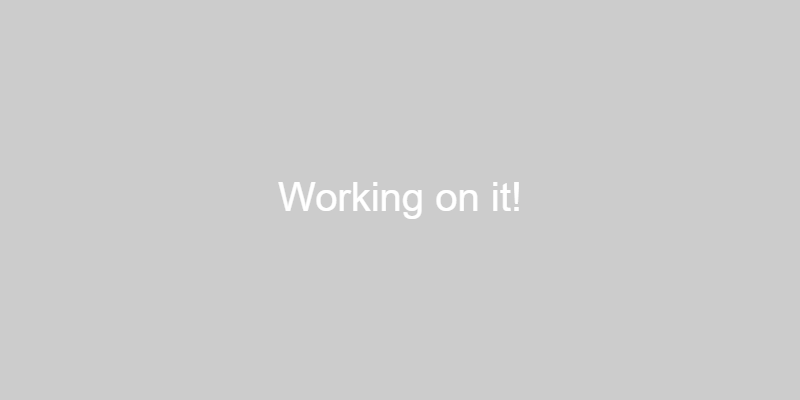
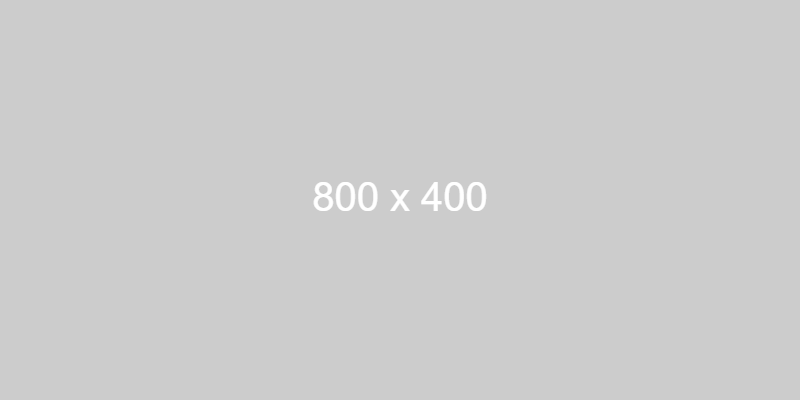
refactor: comment out saveResponseData calls in searchPlace and searchPlaceById, remove unused dummy image

Changed region(s): [[0.3438, 0.45, 0.6562, 0.57]]

diff --git a/backend/src/scraper/searchPlace.js b/backend/src/scraper/searchPlace.js
@@ -1,4 +1,4 @@
-import { saveResponseData } from "../utils/saveResponse.js";
+// import { saveResponseData } from "../utils/saveResponse.js";
 
 /**
  * Searches for a place on Google Maps and returns the first result URL
@@ -19,7 +19,7 @@ export async function searchPlace(placeName) {
 	}
 
 	const html = await response.text();
-	saveResponseData(html, "search", false);
+	// saveResponseData(html, "search", false);
 
 	// Use the same regex pattern as searchPlaceById
 	const placeIdRegex = /0x[0-9a-f]+:0x[0-9a-f]+/g;

diff --git a/backend/src/scraper/searchPlaceById.js b/backend/src/scraper/searchPlaceById.js
@@ -1,4 +1,4 @@
-import { saveResponseData } from "../utils/saveResponse.js";
+// import { saveResponseData } from "../utils/saveResponse.js";
 
 export function getPlaceUrl(placeId) {
 	if (!placeId) {
